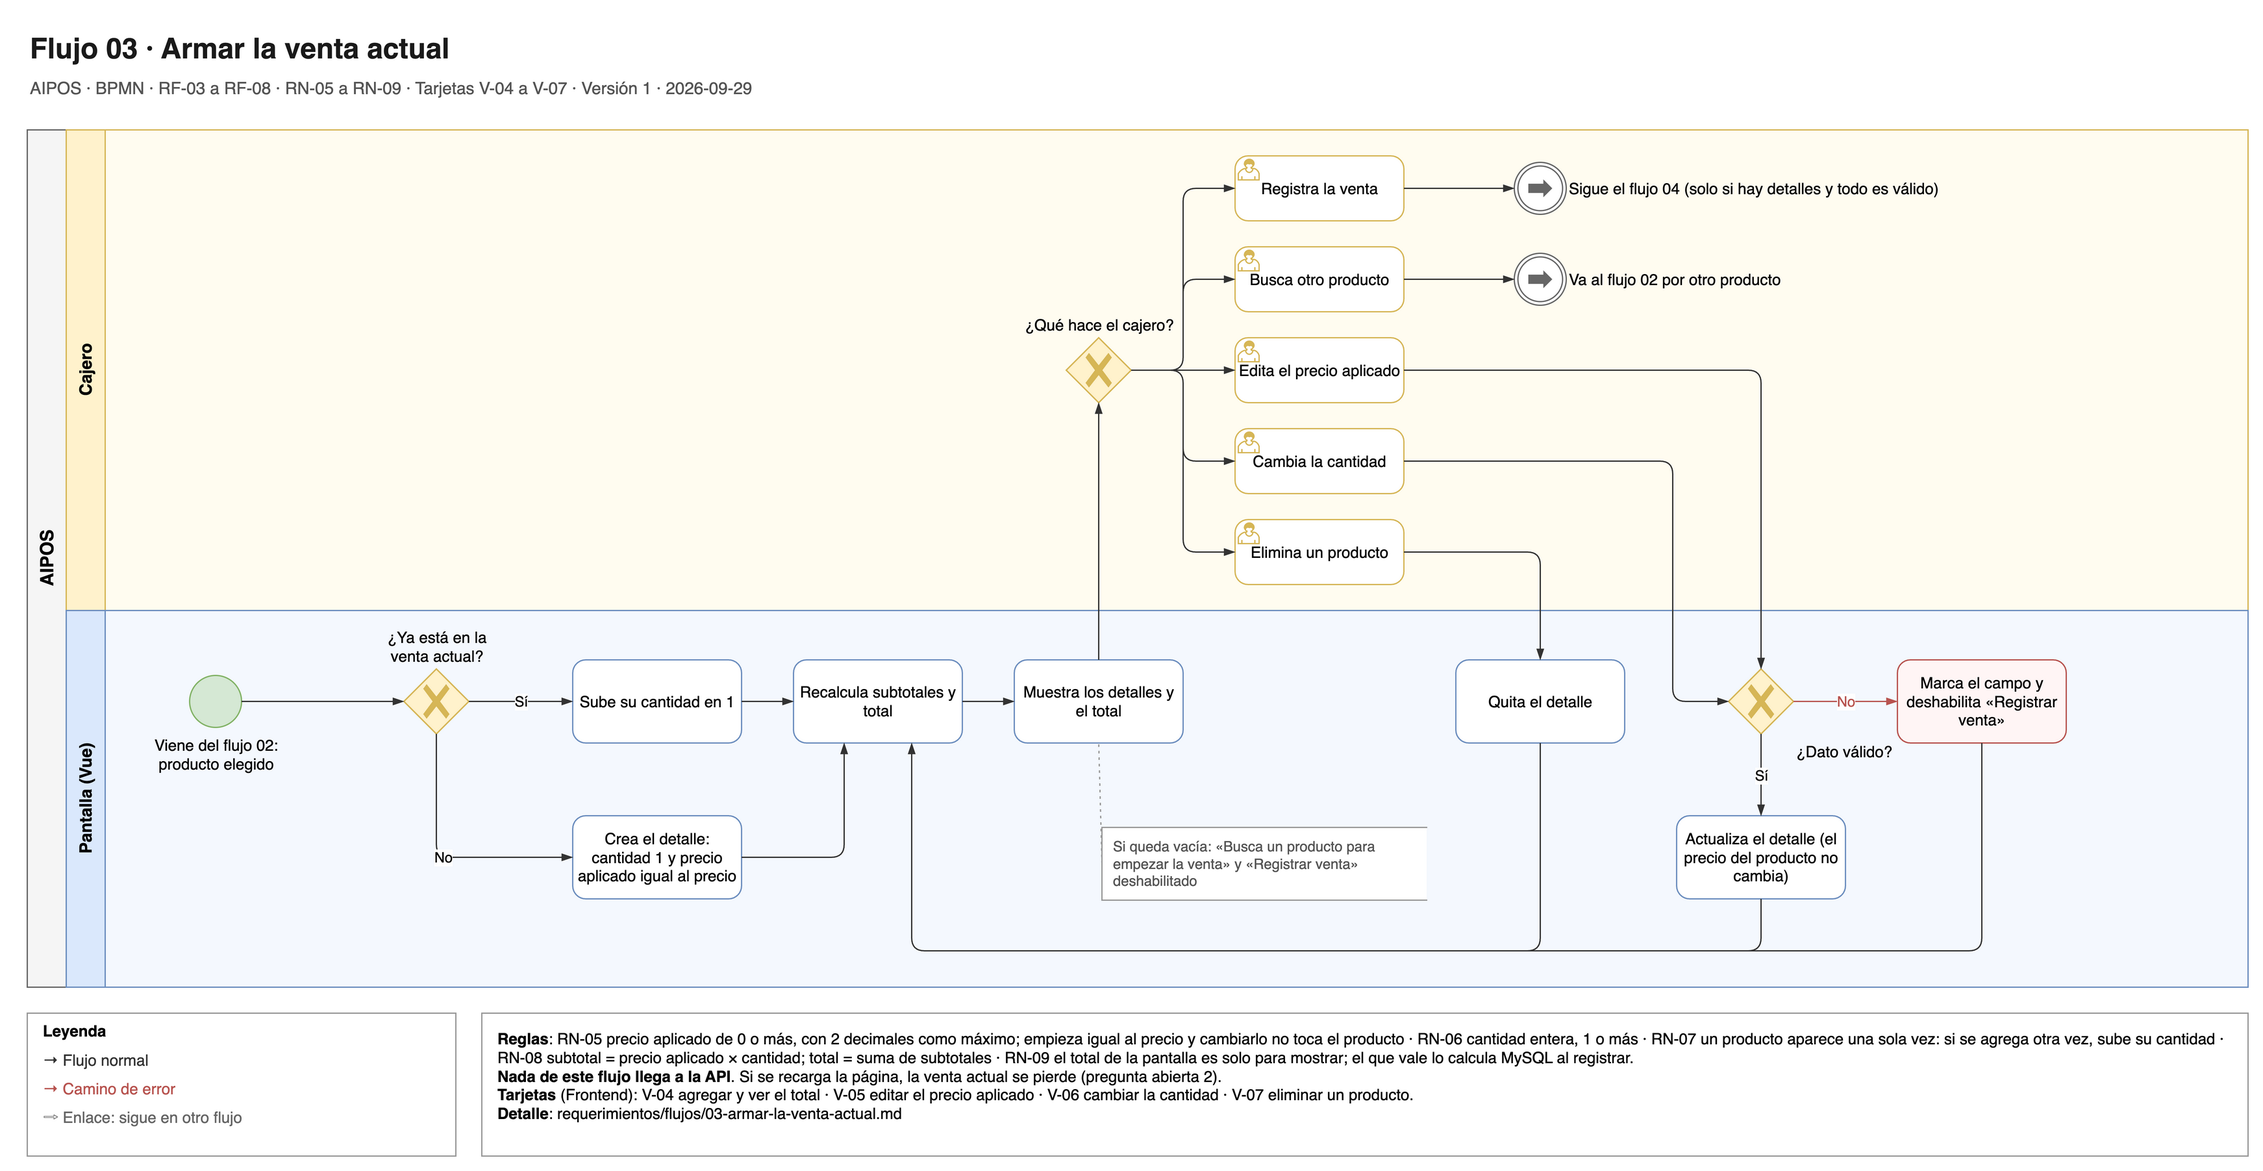
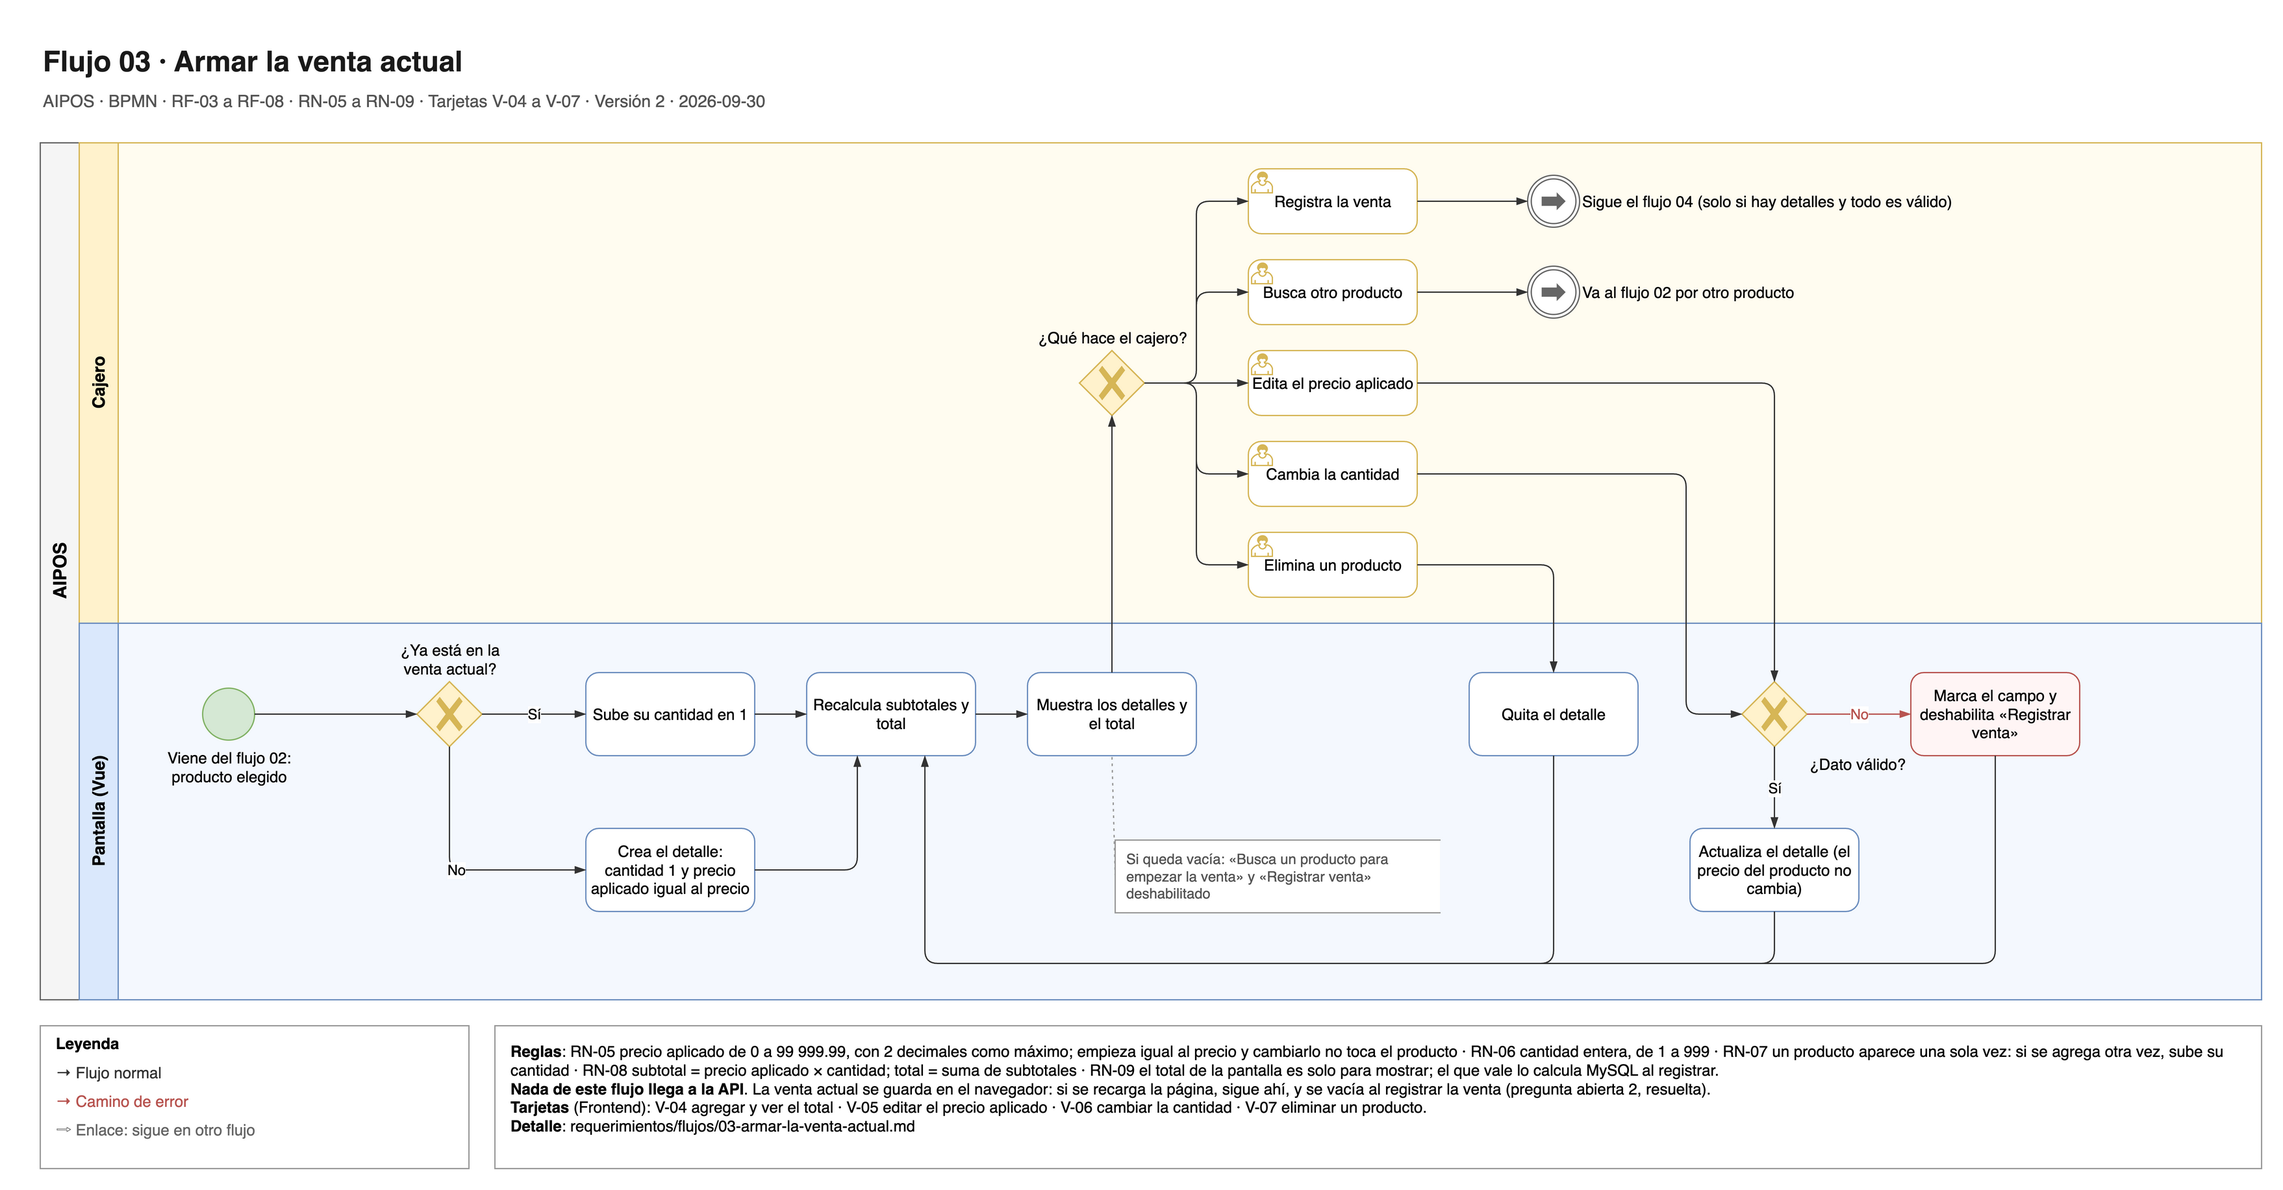
docs(requerimientos): resolver las preguntas abiertas 1 a 6 y guardar la venta actual en el navegador
La persona desarrolladora adoptó las propuestas 1, 3, 4, 5 y 6. La 2 cambia: la
venta actual no se pierde al recargar, se guarda en el navegador y se vacía al
registrar la venta. Se aplican en RN-02, RN-05, RN-06, RF-02, RF-04, RF-09,
RF-10, RF-12, el alcance y los flujos 03 y 04, y se exporta el diagrama del
flujo 03.

diff --git a/requerimientos/02-requerimientos-funcionales.md b/requerimientos/02-requerimientos-funcionales.md
@@ -32,7 +32,7 @@ puede buscar y vender.
 Criterios de aceptación:
 1. Dado el formulario vacío, cuando el cajero presiona "Guardar", entonces la pantalla marca los tres campos
    como obligatorios y no llama a la API.
-2. Dado un precio "-5", "abc" o "10.999", cuando guarda, entonces la pantalla lo marca como inválido. Si la API
+2. Dado un precio "-5", "abc", "10.999" o "100000", cuando guarda, entonces la pantalla lo marca como inválido. Si la API
    recibe ese precio igual, responde 400 con el campo y el motivo.
 3. Dado un código de barras que ya existe, cuando guarda, entonces la API responde 409 y la pantalla muestra "Ya
    existe un producto con ese código de barras" junto al campo, sin borrar lo escrito.
@@ -51,7 +51,7 @@ venta actual (RF-03).
 - **Origen:** PDF §2, "Búsqueda de productos". El PDF deja a criterio cómo se muestran y se eligen los
   resultados.
 - **Reglas:** busca por una parte del nombre, sin importar mayúsculas, o por el código de barras exacto. Busca
-  desde 2 caracteres y muestra 20 resultados como máximo (pregunta abierta 3). `%` y `_` se buscan como texto
+  desde 2 caracteres y muestra 20 resultados como máximo (pregunta abierta 3, resuelta el 2026-09-30). `%` y `_` se buscan como texto
   normal.
 
 Criterios de aceptación:
@@ -87,11 +87,18 @@ subtotal, y las acciones de cada detalle.
 - **Origen:** PDF §3. El nombre y el precio aplicado los pide el PDF; la cantidad y el subtotal vienen de la
   decisión de la persona desarrolladora.
 
+La venta actual se guarda en el navegador (`localStorage`), así que no se pierde al recargar la página. Se vacía al
+registrar la venta (pregunta abierta 2, resuelta el 2026-09-30).
+
 Criterios de aceptación:
 1. Dada una venta actual con 2 detalles, entonces se ven los dos con sus 4 datos y sus acciones: editar el
    precio aplicado, cambiar la cantidad y eliminar.
 2. Dada una venta actual vacía, entonces se ve "Busca un producto para empezar la venta" y el botón "Registrar
    venta" está deshabilitado.
+3. Dada una venta actual con detalles, cuando el cajero recarga la página, entonces la venta actual sigue igual, con
+   sus detalles, sus precios aplicados y sus cantidades.
+4. Dado que el navegador no deja guardar (por ejemplo, en una ventana privada), entonces la pantalla sigue
+   funcionando, sin guardar la venta actual.
 
 ## RF-05 Editar el precio aplicado
 
@@ -117,7 +124,7 @@ Criterios de aceptación:
 1. Dada la leche con cantidad 2, cuando el cajero presiona "+", entonces pasa a 3 y el subtotal y el total se
    recalculan.
 2. Dada la cantidad 1, entonces el botón "−" está deshabilitado; para quitar el producto se usa "Eliminar".
-3. Dada una cantidad escrita "0", "1.5" o "abc", entonces el campo muestra el error y "Registrar venta" queda
+3. Dada una cantidad escrita "0", "1000", "1.5" o "abc", entonces el campo muestra el error y "Registrar venta" queda
    deshabilitado.
 
 ## RF-07 Eliminar un producto de la venta actual
@@ -155,8 +162,8 @@ venta actual queda vacía.
 
 Criterios de aceptación:
 1. Dada una venta actual con 2 detalles válidos, cuando el cajero la registra, entonces hay 1 fila nueva en
-   `ventas` y 2 en `detalles_venta`, la pantalla muestra "Venta 15 registrada · Total 47.50" y la venta actual
-   queda vacía.
+   `ventas` y 2 en `detalles_venta`, la pantalla muestra "Venta 15 registrada · Total 47.50", la venta actual
+   queda vacía y el navegador ya no la guarda: si se recarga la página, sigue vacía.
 2. Dada una venta actual vacía o con un dato inválido, entonces "Registrar venta" está deshabilitado. Si la API
    recibe igual una venta sin detalles, responde 400.
 3. Dado un doble clic en "Registrar venta", entonces se registra una sola venta.
@@ -173,7 +180,9 @@ cada venta.
 - **Origen:** PDF §4, "Persistencia de datos": "Se evaluará que el diseño mantenga correctamente la relación
   entre una venta y los productos incluidos en ella".
 - **Reglas:** RN-01 a RN-03, RN-06, RN-07, RN-12, RN-13.
-- **Datos mínimos** (los tipos exactos los fijan las tarjetas P-01 y V-01):
+- **Datos mínimos** (los tipos del dinero los fija la [spec de arquitectura](../specs/arquitectura.spec.md):
+  `DECIMAL(10,2)` para `precio` y `precio_aplicado`, y `DECIMAL(12,2)` para `subtotal` y `total`; el resto de los
+  tipos, las tarjetas P-01 y V-01):
 
 | Tabla | Columnas |
 |---|---|
@@ -215,7 +224,7 @@ Criterios de aceptación:
 Si el cajero escribe o escanea un código de barras completo y presiona Enter, el producto entra directo a la
 venta actual, sin elegirlo en los resultados.
 
-- **Origen:** propuesta del agente. Opcional, por confirmar (pregunta abierta 5).
+- **Origen:** propuesta del agente. Opcional: entra si sobra tiempo (pregunta abierta 5, resuelta el 2026-09-30).
 
 Criterios de aceptación:
 1. Dado "7501055300075" y Enter, entonces la leche entra a la venta actual y el campo de búsqueda se limpia.
@@ -229,11 +238,11 @@ la base de datos la protege.
 | RN | Regla | Origen |
 |---|---|---|
 | RN-01 | Todo producto tiene nombre, precio y código de barras. | PDF §1 |
-| RN-02 | El precio es mayor que 0 y tiene 2 decimales como máximo. La API rechaza 10.999, porque MySQL lo redondearía a 11.00 sin dar error. El máximo está en la pregunta abierta 4. | Propuesta, por confirmar el máximo |
+| RN-02 | El precio es mayor que 0, hasta 99 999.99, y tiene 2 decimales como máximo. La API rechaza 10.999, porque MySQL lo redondearía a 11.00 sin dar error. | Propuesta; el máximo está en la pregunta abierta 4, resuelta el 2026-09-30 |
 | RN-03 | El código de barras es único: no hay dos productos con el mismo. Se guarda como texto (`VARCHAR`) para no perder los ceros de la izquierda. | Propuesta |
 | RN-04 | El nombre y el código de barras se guardan sin espacios en los extremos y no pueden quedar vacíos. Largo máximo: 120 caracteres el nombre y 50 el código de barras. | Propuesta, por confirmar los largos |
-| RN-05 | El precio aplicado empieza igual al precio del producto, y cambiarlo no cambia el precio del producto. Es 0 o más, con 2 decimales como máximo. | Glosario; el 0 está en la pregunta abierta 1 |
-| RN-06 | La cantidad es un número entero, 1 o más. El máximo está en la pregunta abierta 4. | Decisión de la persona desarrolladora |
+| RN-05 | El precio aplicado empieza igual al precio del producto, y cambiarlo no cambia el precio del producto. Es 0 o más, hasta 99 999.99, con 2 decimales como máximo. El 0 se permite, por ejemplo para regalar un producto. | Glosario; el 0 y el máximo están en las preguntas abiertas 1 y 4, resueltas el 2026-09-30 |
+| RN-06 | La cantidad es un número entero de 1 a 999. | Decisión de la persona desarrolladora; el máximo está en la pregunta abierta 4, resuelta el 2026-09-30 |
 | RN-07 | Un producto tiene un solo detalle en la venta actual y en la venta. Si se agrega otra vez, su cantidad sube en 1. | Decisión de la persona desarrolladora |
 | RN-08 | Subtotal = precio aplicado × cantidad. Total = suma de los subtotales. | Glosario |
 | RN-09 | La pantalla muestra el total de la venta actual mientras se arma. El que vale es el que calcula la base de datos al registrar la venta. | Glosario |

diff --git a/requerimientos/README.md b/requerimientos/README.md
@@ -7,7 +7,7 @@ tarjeta apunta a un requerimiento y a un flujo de esta carpeta.
 - **Fuente:** el PDF de la prueba técnica (`devdoc/Prueba_Tecnica_Lead_AI_Native_Software_Engineer.pdf`, fuera
   de git) y las decisiones del 2026-09-29.
 - **Palabras:** las del glosario, [`docs/lenguaje-ubicuo.md`](../docs/lenguaje-ubicuo.md).
-- **Estado:** versión 1, del 2026-09-29. Lo que dice "por confirmar" todavía no está decidido.
+- **Estado:** versión 2, del 2026-09-30. Las preguntas abiertas 1 a 6 se resolvieron ese día. Lo que dice "por confirmar" todavía no está decidido.
 
 ## Cómo leer esta carpeta
 
@@ -76,15 +76,15 @@ Cada parte del PDF, el requerimiento que la cubre, su flujo y sus tarjetas.
 
 ## Preguntas abiertas
 
-Están por confirmar. Cada una es una subtarea de la tarjeta R-04 del tablero AIPOS.
+Cada una es una subtarea de la tarjeta R-04 del tablero AIPOS. La persona desarrolladora resolvió la 1, la 3, la 4, la 5 y la 6 con la propuesta, y la 2 con una decisión distinta, el 2026-09-30. La 7 sigue abierta y la 8 se resolvió el 2026-09-29.
 
 | # | Pregunta | Propuesta | Qué cambia |
 |---|---|---|---|
-| 1 | ¿Se permite un precio aplicado de 0? | Sí, para regalar un producto. | RN-05 |
-| 2 | ¿La venta actual debe seguir ahí si se recarga la página? | No en la versión 1. | Flujo 03 |
-| 3 | ¿Se busca desde 2 caracteres y se muestran 20 resultados como máximo? | Sí. | RF-02 |
-| 4 | ¿Qué límites tienen el precio y la cantidad? | Precio hasta 99 999.99 y cantidad hasta 999. El subtotal y el total usan `DECIMAL(12,2)` para que no se desborden. | RN-02, RN-06 |
-| 5 | ¿Entra RF-12 (Enter con un código de barras exacto)? | Sí, si sobra tiempo. | RF-12 |
-| 6 | ¿Cómo se muestran los precios? | Con 2 decimales y sin símbolo de moneda. | RNF-01 |
+| 1 | ¿Se permite un precio aplicado de 0? | **Resuelta el 2026-09-30**: sí, para regalar un producto. | RN-05 |
+| 2 | ¿La venta actual debe seguir ahí si se recarga la página? | **Resuelta el 2026-09-30, distinta de la propuesta** (que era "no"): sí. La venta actual se guarda en el navegador (`localStorage`, con `try/catch`) y se vacía al registrar la venta. | Flujo 03, RF-04, RF-09 y el supuesto de `01-alcance.md` |
+| 3 | ¿Se busca desde 2 caracteres y se muestran 20 resultados como máximo? | **Resuelta el 2026-09-30**: sí. | RF-02 |
+| 4 | ¿Qué límites tienen el precio y la cantidad? | **Resuelta el 2026-09-30**: precio hasta 99 999.99 y cantidad de 1 a 999. El precio y el precio aplicado usan `DECIMAL(10,2)`, y el subtotal y el total usan `DECIMAL(12,2)` para que no se desborden. | RN-02, RN-06 |
+| 5 | ¿Entra RF-12 (Enter con un código de barras exacto)? | **Resuelta el 2026-09-30**: sí, si sobra tiempo. | RF-12 |
+| 6 | ¿Cómo se muestran los precios? | **Resuelta el 2026-09-30**: con 2 decimales y sin símbolo de moneda. | RNF-01 |
 | 7 | ¿Cómo llega la versión final a `main` sin perder los merge commits? La regla "Protect main" de GitHub solo deja squash o rebase. | Se evalúa `ProductionEnv`, que guarda los merge commits, y a `main` se lleva con rebase. La otra opción es permitir un merge commit solo en ese PR. | E-03 |
 | 8 | ¿Cerramos los PR #5 y #6 de Dependabot, que suben a Vue 3 y Vuetify 3? | **Resuelta el 2026-09-29**: se cerraron. `.github/dependabot.yml` (PR #8) no alcanzó a frenar los PR de seguridad, así que el PR #12 los apagó en el repositorio; las alertas de Vue 2 y Vuetify 2 se revisan a mano. | B-04 |

diff --git a/requerimientos/flujos/03-armar-la-venta-actual.md b/requerimientos/flujos/03-armar-la-venta-actual.md
@@ -1,7 +1,8 @@
 # Flujo 03 · Armar la venta actual
 
 El cajero arma la venta actual en la pantalla: agrega productos, edita el precio aplicado, cambia la cantidad o
-elimina un producto, y siempre ve el total. Nada llega a la API ni a MySQL hasta registrar la venta.
+elimina un producto, y siempre ve el total. Nada llega a la API ni a MySQL hasta registrar la venta. La venta actual
+se guarda en el navegador, así que sigue ahí si se recarga la página, y se vacía al registrar la venta.
 
 ![Diagrama BPMN del flujo 03](../diagramas/03-armar-la-venta-actual.png)
 
@@ -22,9 +23,9 @@ Fuente editable: [`03-armar-la-venta-actual.drawio`](../diagramas/03-armar-la-ve
 3. **Pantalla:** recalcula los subtotales y el total, y muestra los detalles y el total.
 4. **Cajero:** elige qué hacer:
    - **Buscar otro producto:** sigue el flujo 02 y vuelve al paso 1.
-   - **Editar el precio aplicado:** la pantalla lo valida (0 o más, 2 decimales como máximo) y actualiza el
+   - **Editar el precio aplicado:** la pantalla lo valida (de 0 a 99 999.99, 2 decimales como máximo) y actualiza el
      detalle. El precio del producto no cambia. Vuelve al paso 3.
-   - **Cambiar la cantidad:** la pantalla la valida (entero, 1 o más) y actualiza el detalle. Vuelve al paso 3.
+   - **Cambiar la cantidad:** la pantalla la valida (entero, de 1 a 999) y actualiza el detalle. Vuelve al paso 3.
    - **Eliminar un producto:** la pantalla quita el detalle. Vuelve al paso 3.
    - **Registrar venta:** sigue el flujo 04.
 
@@ -34,10 +35,13 @@ Fuente editable: [`03-armar-la-venta-actual.drawio`](../diagramas/03-armar-la-ve
 |---|---|---|
 | 4 | El precio aplicado o la cantidad no son válidos. | La pantalla marca el campo y deshabilita "Registrar venta" hasta que se corrija. |
 | 4 | El cajero elimina el último detalle. | La venta actual queda vacía: se ve "Busca un producto para empezar la venta" y "Registrar venta" queda deshabilitado. |
-| Cualquiera | El cajero recarga la página. | La venta actual se pierde (pregunta abierta 2). |
+| Cualquiera | El cajero recarga la página. | La venta actual sigue igual: la pantalla la lee del navegador (pregunta abierta 2, resuelta el 2026-09-30). |
+| Cualquiera | El navegador no deja guardar (por ejemplo, en una ventana privada). | La pantalla funciona igual, sin guardar la venta actual. |
 
 ## Notas técnicas
 
 - La lógica de la venta actual (agregar, cantidad, precio aplicado, eliminar, total) vive fuera de los
   componentes, para probarla sin pantalla.
+- La venta actual se guarda en `localStorage`, con `try/catch` en cada acceso, después de cada cambio. Se vacía cuando
+  la API confirma la venta (flujo 04), no antes: si registrar falla, la venta actual se conserva.
 - El total de la pantalla es solo para mostrar. El que vale lo calcula MySQL al registrar la venta (RN-09).

diff --git a/requerimientos/flujos/04-registrar-venta.md b/requerimientos/flujos/04-registrar-venta.md
@@ -21,8 +21,8 @@ Fuente editable: [`04-registrar-venta.drawio`](../diagramas/04-registrar-venta.d
 1. **Cajero:** presiona "Registrar venta".
 2. **Pantalla:** deshabilita el botón, para que un doble clic no registre dos ventas, y manda `POST /api/ventas`
    con cada detalle: producto, cantidad y precio aplicado.
-3. **API:** valida la venta: al menos un detalle, ids enteros, cantidad entera de 1 o más, precio aplicado de 0
-   o más con 2 decimales como máximo y sin productos repetidos.
+3. **API:** valida la venta: al menos un detalle, ids enteros, cantidad entera de 1 a 999, precio aplicado de 0
+   a 99 999.99 con 2 decimales como máximo y sin productos repetidos.
 4. **API:** llama a `CALL sp_registrar_venta(:detalles)` con los detalles en JSON.
 5. **MySQL:** empieza la operación con `START TRANSACTION`.
 6. **MySQL:** revisa que la lista no esté vacía y que cada producto exista.
@@ -32,7 +32,7 @@ Fuente editable: [`04-registrar-venta.drawio`](../diagramas/04-registrar-venta.d
 10. **MySQL:** confirma con `COMMIT` y devuelve el número de la venta y el total con un `SELECT`.
 11. **API:** responde 201 con el número de la venta y el total.
 12. **Pantalla:** muestra "Venta N registrada · Total X" con los valores que devolvió MySQL y deja la venta
-    actual vacía.
+    actual vacía, también en el navegador (flujo 03).
 
 ## Otros caminos
 

diff --git a/graphify-out/GRAPH_REPORT.md b/graphify-out/GRAPH_REPORT.md
@@ -1,12 +1,12 @@
 # Graph Report - spec-arquitectura  (2026-09-30)
 
 ## Corpus Check
-- 67 files · ~42,297 words
+- 67 files · ~42,677 words
 - Verdict: corpus is large enough that graph structure adds value.
 - Unclassified: 13 file(s) not represented in the graph (top: .drawio 7, (none) 5, .example 1)
 
 ## Summary
-- 348 nodes · 344 edges · 53 communities (26 shown, 27 thin omitted)
+- 348 nodes · 345 edges · 53 communities (26 shown, 27 thin omitted)
 - Extraction: 100% EXTRACTED · 0% INFERRED · 0% AMBIGUOUS
 - Token cost: 0 input · 0 output
 
@@ -208,7 +208,7 @@ _Questions this graph is uniquely positioned to answer:_
 - **What connects `name`, `mode`, `source` to the rest of the system?**
   _218 weakly-connected nodes found - possible documentation gaps or missing edges._
 - **Should `requerimientos/README.md` be split into smaller, more focused modules?**
-  _Cohesion score 0.10080645161290322 - nodes in this community are weakly interconnected._
+  _Cohesion score 0.1028225806451613 - nodes in this community are weakly interconnected._
 - **Should `Grafo del proyecto` be split into smaller, more focused modules?**
   _Cohesion score 0.08615384615384615 - nodes in this community are weakly interconnected._
 - **Should `dependencies` be split into smaller, more focused modules?**

diff --git a/requerimientos/01-alcance.md b/requerimientos/01-alcance.md
@@ -35,7 +35,7 @@ con un procedimiento almacenado, el uso de Git y el trabajo con un agente de có
 **Recomendado**, decidido por la persona desarrolladora y permitido por el PDF:
 - Cantidad y subtotal en cada detalle de venta.
 
-**Opcional**, por confirmar:
+**Opcional**, decidido el 2026-09-30: entra si sobra tiempo.
 - RF-12: Enter con un código de barras exacto agrega el producto directo a la venta actual.
 
 ## Fuera de alcance
@@ -70,7 +70,7 @@ Se declara en el README para que quien evalúa lo vea.
 ## Supuestos
 
 - Hay un solo cajero a la vez y una sola venta actual.
-- La venta actual vive solo en la pantalla. Si se recarga la página, se pierde (pregunta abierta 2).
+- La venta actual vive en la pantalla y se guarda en el navegador. Si se recarga la página, sigue ahí, y se vacía al registrar la venta (pregunta abierta 2, resuelta el 2026-09-30).
 - Los precios están en una sola moneda y tienen 2 decimales.
 - AIPOS corre en local con los comandos del README. No se publica en internet.
 
